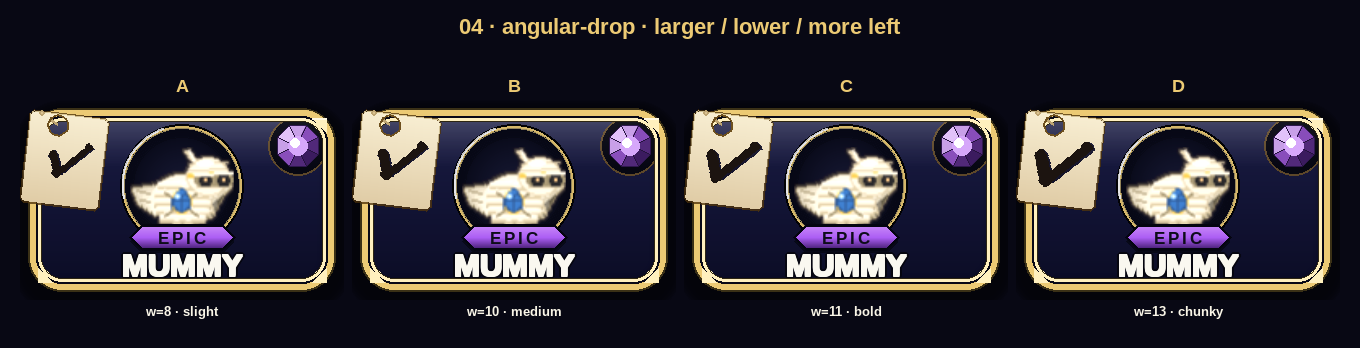
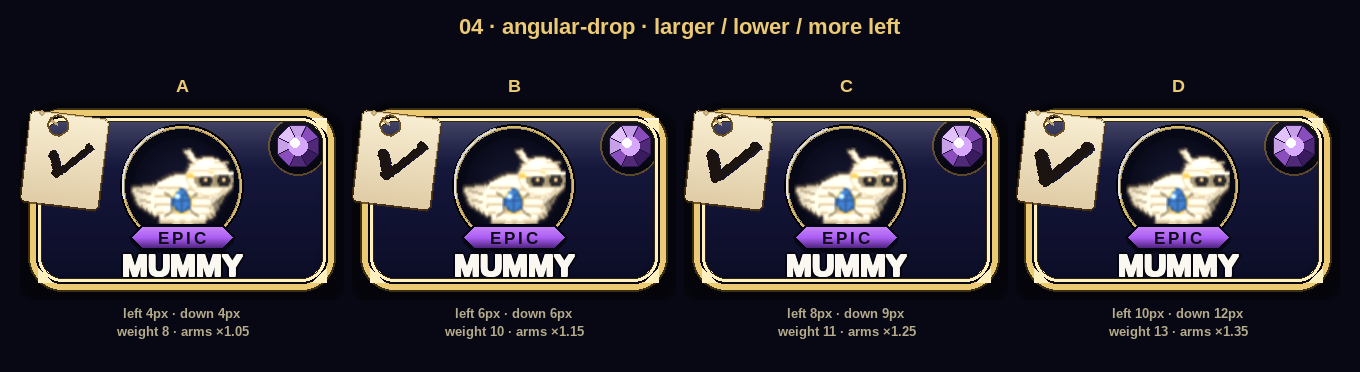
Show full properties on 04 variants figure (shift/weight/scale per panel)
Claude-Session: https://claude.ai/code/session_01DaGYw11VdAubog2VGiiucC

diff --git a/tools/_checkmark_v2_04_variants.py b/tools/_checkmark_v2_04_variants.py
@@ -90,7 +90,7 @@ PAD    = 20
 GAP    = 8
 HDR_H  = 48
 LBL_H  = 32
-FTR_H  = 28
+FTR_H  = 52   # two property lines
 width  = PAD + N * PANEL_W + (N - 1) * GAP + PAD
 height = PAD + HDR_H + LBL_H + PANEL_H + FTR_H + PAD
 
@@ -101,17 +101,28 @@ title_f = hud_font(22, True)
 tt = title_f.render("04 · angular-drop · larger / lower / more left", True, GOLD)
 canvas.blit(tt, tt.get_rect(midtop=(width // 2, PAD // 2 + 4)))
 
-id_f  = hud_font(18, True)
-lbl_f = hud_font(13, True)
+id_f   = hud_font(18, True)
+prop_f = hud_font(13, True)
 panel_y = PAD + HDR_H + LBL_H
 
+DIM  = (180, 170, 140)   # muted for secondary text
+
 for i, ((ls, ds, w, sc_arm, lbl, note), panel) in enumerate(zip(OPTIONS, panels)):
-    px = PAD + i * (PANEL_W + GAP)
+    px  = PAD + i * (PANEL_W + GAP)
+    mid = px + PANEL_W // 2
+
     id_t = id_f.render(lbl, True, GOLD)
-    canvas.blit(id_t, id_t.get_rect(midbottom=(px + PANEL_W // 2, panel_y - 4)))
+    canvas.blit(id_t, id_t.get_rect(midbottom=(mid, panel_y - 4)))
     canvas.blit(panel, (px, panel_y))
-    nm_t = lbl_f.render(note, True, CREAM)
-    canvas.blit(nm_t, nm_t.get_rect(midtop=(px + PANEL_W // 2, panel_y + PANEL_H + 4)))
+
+    fy = panel_y + PANEL_H + 6
+    for line in (
+        f"left {ls}px · down {ds}px",
+        f"weight {w} · arms ×{sc_arm:.2f}",
+    ):
+        lt = prop_f.render(line, True, DIM)
+        canvas.blit(lt, lt.get_rect(midtop=(mid, fy)))
+        fy += 18
 
 OUT = "docs/store_equipped_v3_2_checkmarks/04_variants.png"
 os.makedirs(os.path.dirname(OUT), exist_ok=True)
